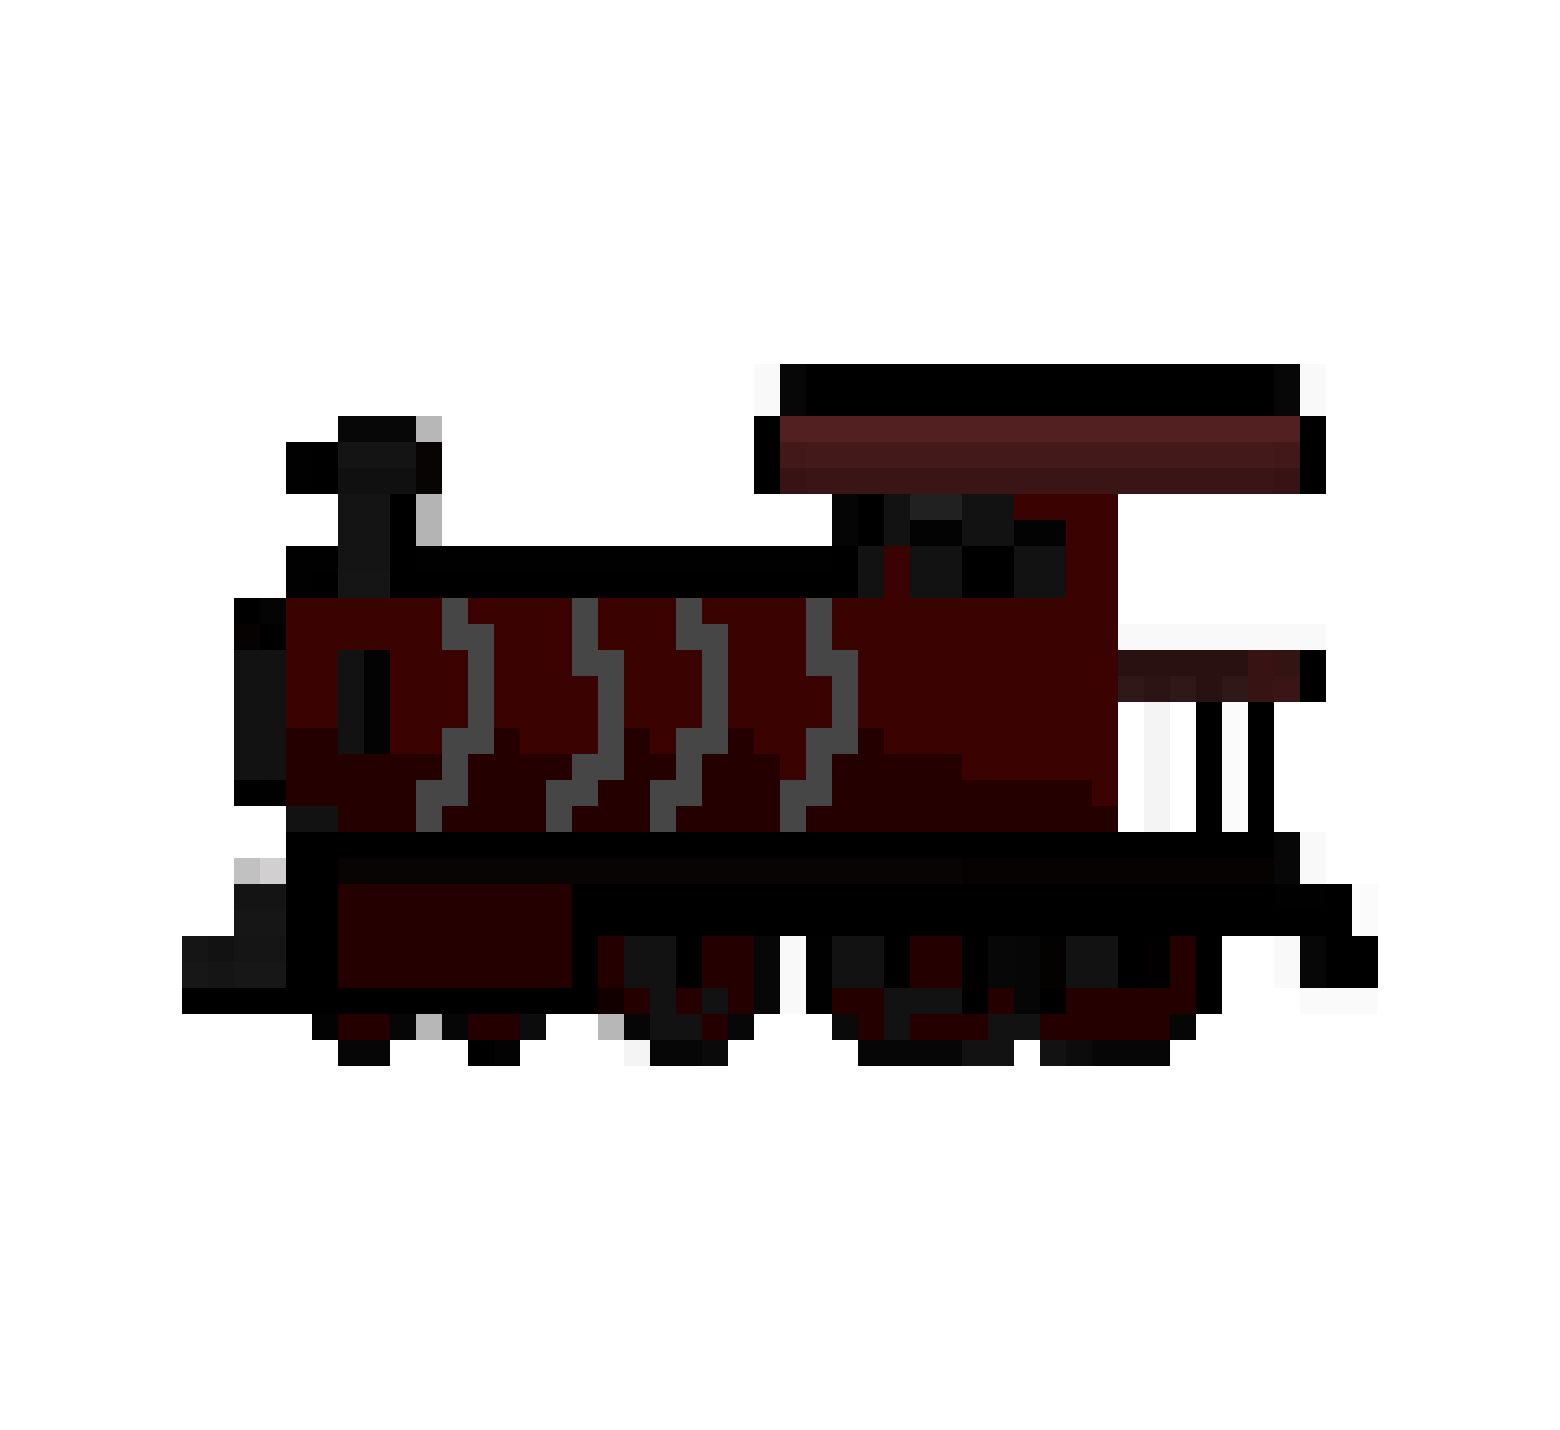
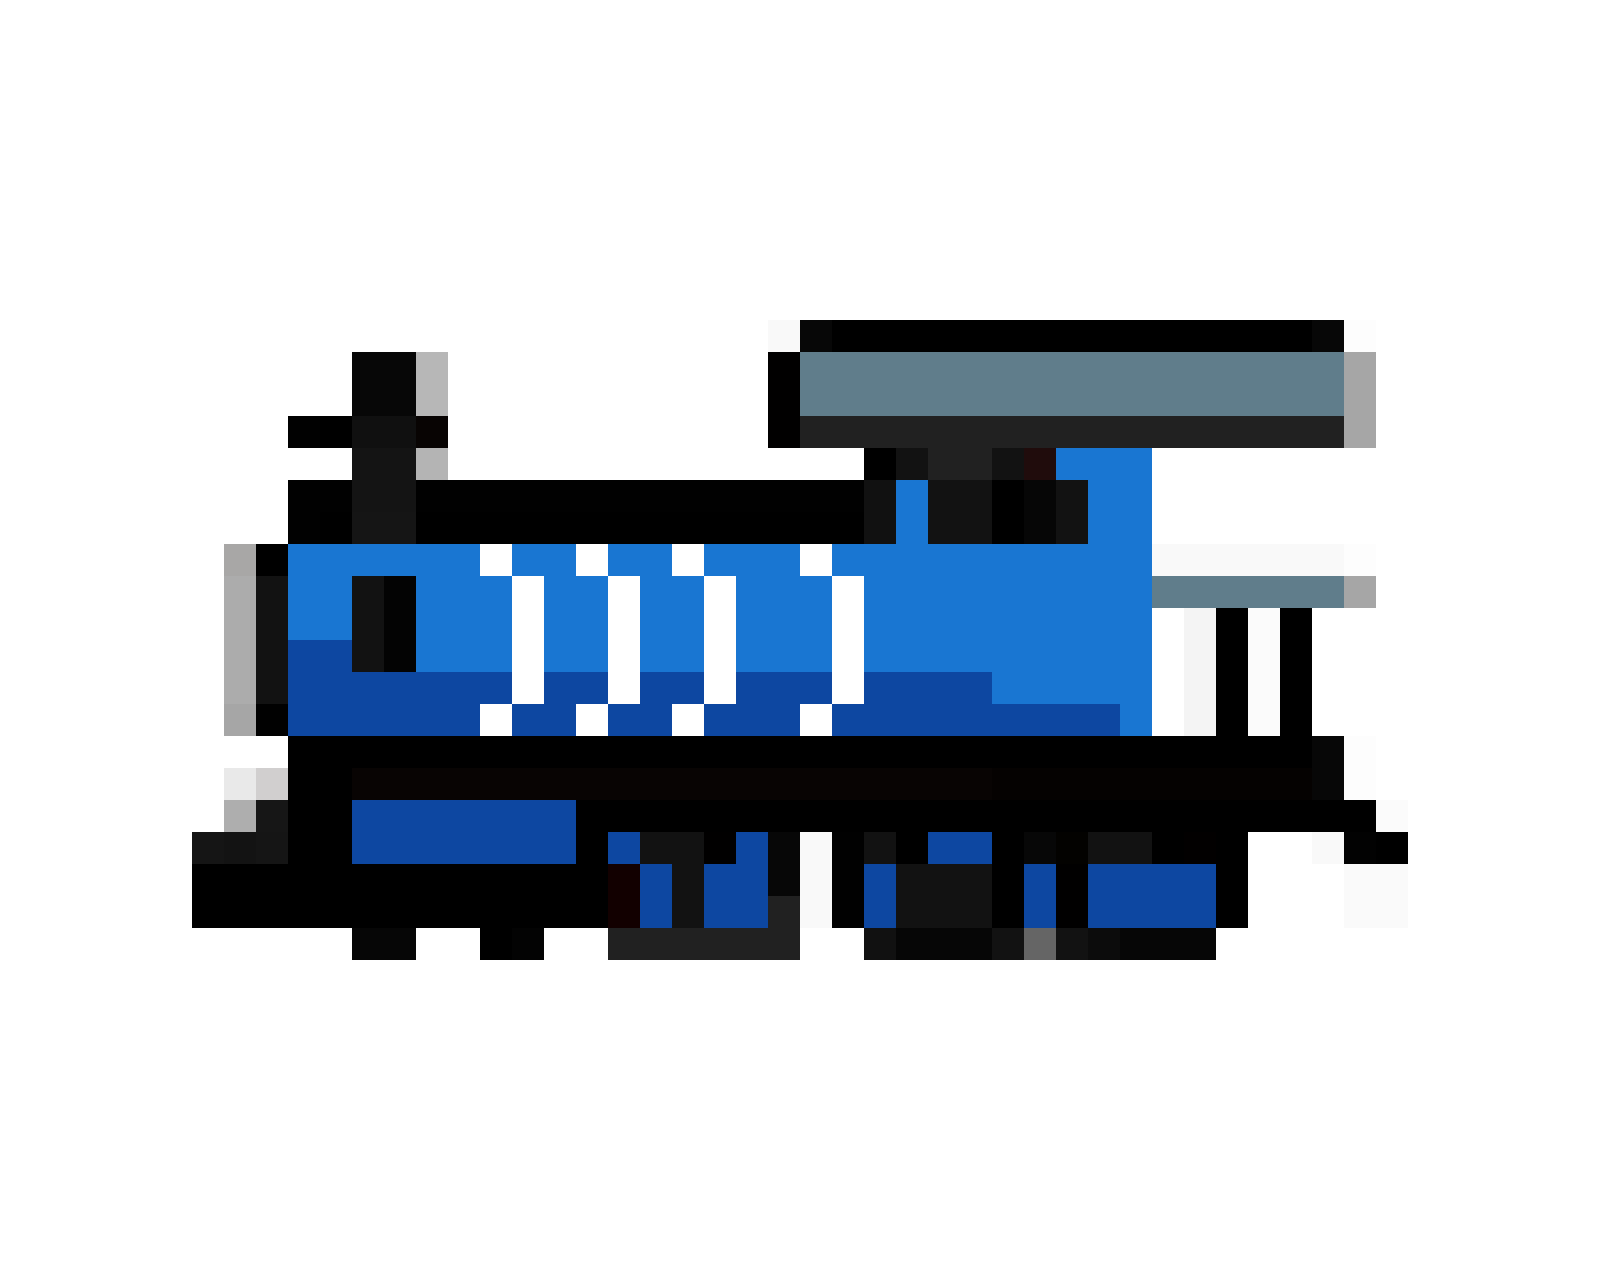
Added trains and fixed up positioning

Changed region(s): [[0.0923, 0.25, 0.8923, 0.75]]

diff --git a/trolleyproblem.html b/trolleyproblem.html
@@ -45,31 +45,60 @@
             background-image: url('straighttrack.png');
             background-repeat:repeat-x;
             background-position: center;
+            top:40%
             /* background-color: blue; */
         }
         #railsplit {
             position: absolute;
             display: flex;
-            left:50%;
+            left:32%;
             width: 180px;
             height: 150px;
             background-image: url('righttrack.png');
             background-position: center;
-            background-position-y: 63%;
+            background-position-y: 93%;
             /* background-color: blue; */
         }
         #bottomrails {
             position: absolute;
             display: flex;
-            top: 60%;
-            left:67.9%;
-            width: 321px;
+            top: 50%;
+            left:50%;
+            width: 500px;
             height: 100px;
             background-image: url('straighttrack.png');
             background-repeat:repeat-x;
             background-position-y: center;
             background-position-x: left;
             z-index: 2;
+            /* background-color: blue; */
+        }
+        #train{
+            transform: scaleX(-.14) scaleY(.15);
+            position: absolute;
+            display: flex;
+            top: -38%;
+            left:-55%;
+            width: 1400px;
+            height: 800px;
+            background-image: url('train.png');
+            background-position-y: center;
+            background-position-x: left;
+            z-index: 1;
+            /* background-color: blue; */
+        }
+        #bloodytrain{
+            transform: scaleX(-.14) scaleY(.15);
+            position: absolute;
+            display: flex;
+            top: -38%;
+            left:-35%;
+            width: 1400px;
+            height: 800px;
+            background-image: url('bloodytrain.png');
+            background-position-y: center;
+            background-position-x: left;
+            z-index: 1;
             /* background-color: blue; */
         }
     </style>
@@ -84,6 +113,11 @@
             </div>
             <div id='bottomrails'>
             </div>
+            <div id='train'>
+            </div>
+            <div id='bloodytrain'>
+            </div>
+
         </div>
     </div>
 </body>
